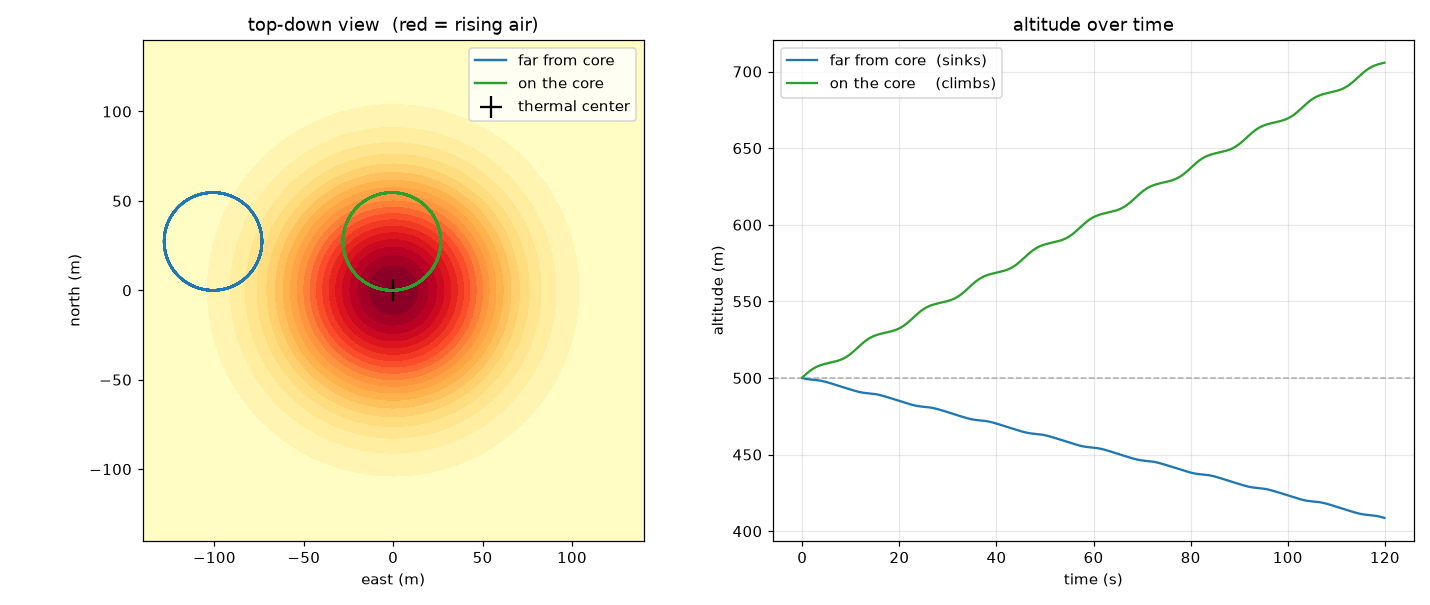
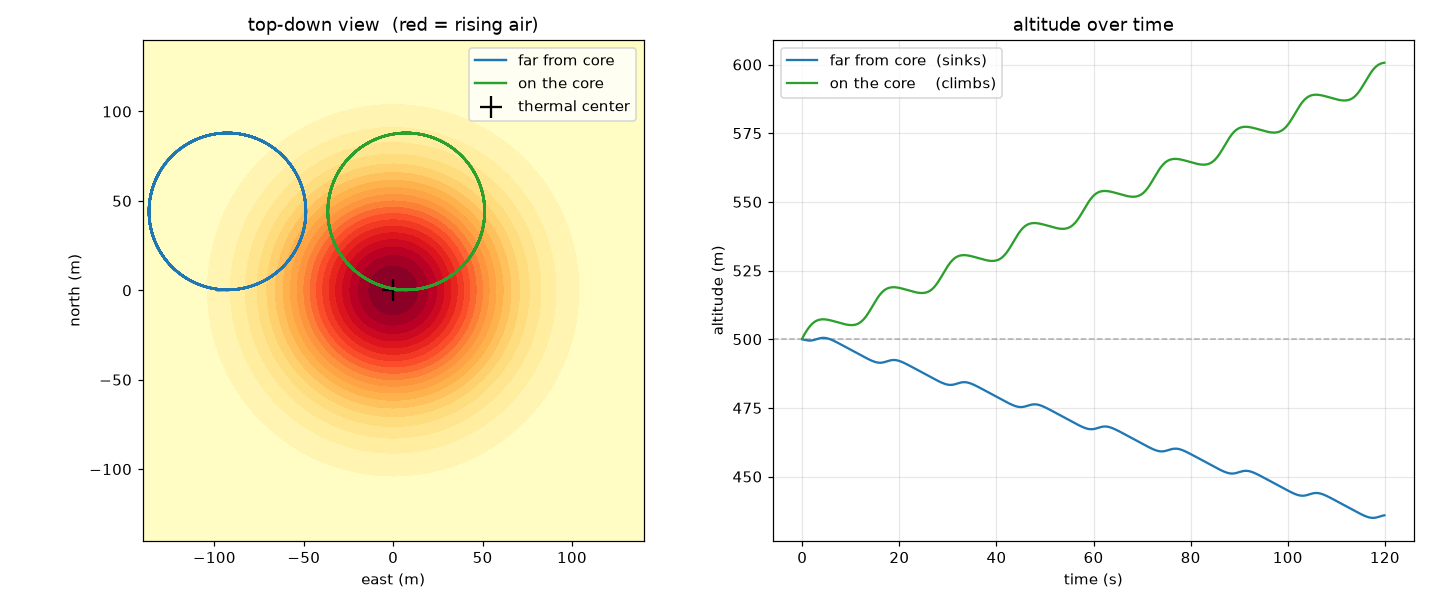
t1: carry session state + regenerated demo plot before syncing with main
README/task_list working-tree edits + the fly.py plot regenerated under
the new physics; committed so the merge from main has a clean tree.

diff --git a/README.md b/README.md
@@ -24,6 +24,13 @@ uv pip install --python .venv/bin/python numpy matplotlib
 ```
 Writes `soaring_first_flight.png` (top-down paths + altitude-over-time).
 
+## quick menu
+```
+python3 scripts/menu.py
+```
+prints every CLI, the automatic hooks, and the
+escape hatches at a glance — the fastest way to see what you can run.
+
 ## tinker — this is the actual point
 Open `fly.py` and change the lines tagged `# <-- TRY`, then re-run:
 - **thermal `w_peak` / `radius`** — stronger / wider rising air.